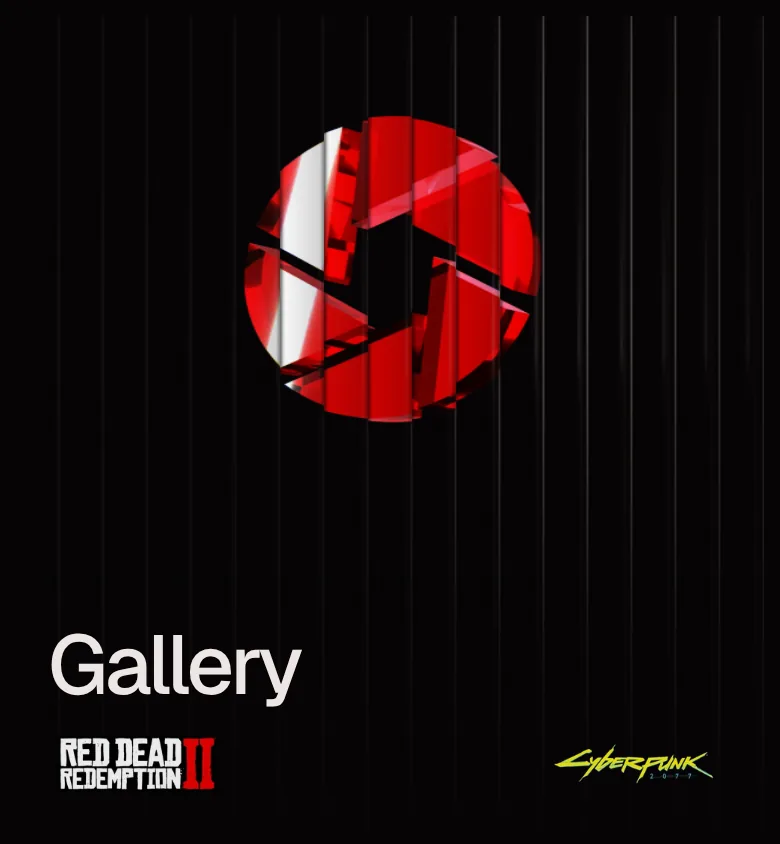
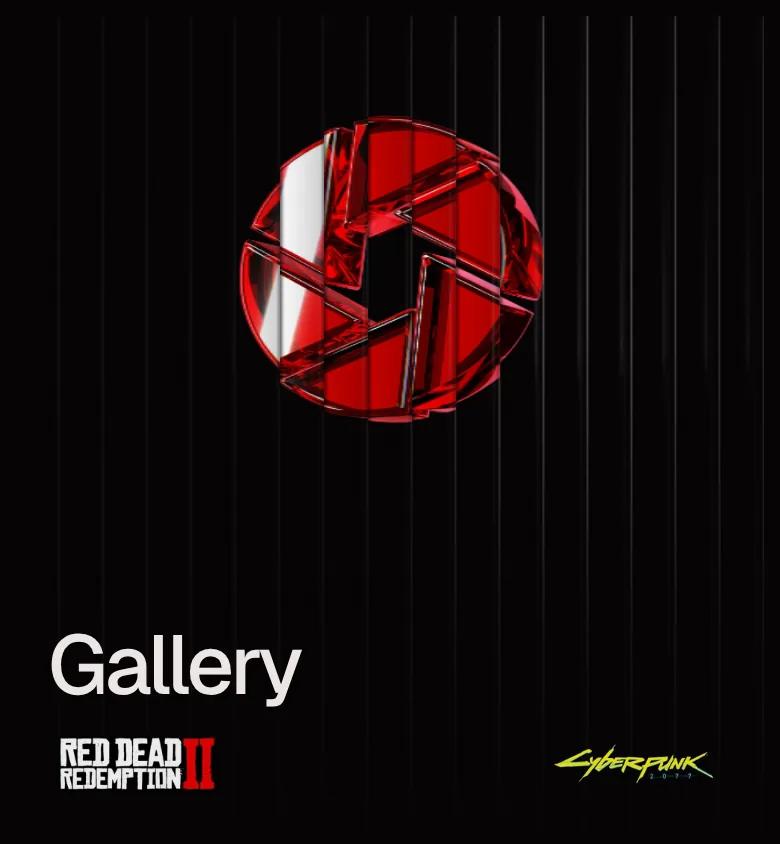
Preview: bevelled aperture, 33 frames
Claude-Session: https://claude.ai/code/session_015iS8hJsCnV8m3TxSPABS12

Changed region(s): [[0.3077, 0.1232, 0.7077, 0.5237]]

diff --git a/public/gallery/index.html b/public/gallery/index.html
@@ -18,7 +18,7 @@
 <meta name="twitter:site" content="@BrAtUkA_dev">
 <link rel="icon" href="../a/favicon.svg?v=201c26f2" type="image/svg+xml">
 <link rel="preload" href="../a/fonts/geist-latin.woff2?v=91da2c05" as="font" type="font/woff2" crossorigin>
-<link rel="preload" href="../a/hero-gallery.webp?v=934e71de" as="image">
+<link rel="preload" href="../a/hero-gallery.webp?v=3f5bb954" as="image">
 <script>document.documentElement.classList.add('js')</script>
 <style>@font-face{font-family:'Geist';font-style:normal;font-weight:400 600;font-display:swap;src:url(../a/fonts/geist-latin-ext.woff2?v=c99ca7ca) format('woff2');unicode-range:U+0100-02BA, U+02BD-02C5, U+02C7-02CC, U+02CE-02D7, U+02DD-02FF, U+0304, U+0308, U+0329, U+1D00-1DBF, U+1E00-1E9F, U+1EF2-1EFF, U+2020, U+20A0-20AB, U+20AD-20C4, U+2113, U+2C60-2C7F, U+A720-A7FF}@font-face{font-family:'Geist';font-style:normal;font-weight:400 600;font-display:swap;src:url(../a/fonts/geist-latin.woff2?v=91da2c05) format('woff2');unicode-range:U+0000-00FF, U+0131, U+0152-0153, U+02BB-02BC, U+02C6, U+02DA, U+02DC, U+0304, U+0308, U+0329, U+2000-206F, U+20AC, U+2122, U+2191, U+2193, U+2212, U+2215, U+FEFF, U+FFFD}@font-face{font-family:'Geist Mono';font-style:normal;font-weight:400 500;font-display:swap;src:url(../a/fonts/geist-mono-latin-ext.woff2?v=c493e11b) format('woff2');unicode-range:U+0100-02BA, U+02BD-02C5, U+02C7-02CC, U+02CE-02D7, U+02DD-02FF, U+0304, U+0308, U+0329, U+1D00-1DBF, U+1E00-1E9F, U+1EF2-1EFF, U+2020, U+20A0-20AB, U+20AD-20C4, U+2113, U+2C60-2C7F, U+A720-A7FF}@font-face{font-family:'Geist Mono';font-style:normal;font-weight:400 500;font-display:swap;src:url(../a/fonts/geist-mono-latin.woff2?v=d8f727de) format('woff2');unicode-range:U+0000-00FF, U+0131, U+0152-0153, U+02BB-02BC, U+02C6, U+02DA, U+02DC, U+0304, U+0308, U+0329, U+2000-206F, U+20AC, U+2122, U+2191, U+2193, U+2212, U+2215, U+FEFF, U+FFFD}</style>
 <style>
@@ -93,8 +93,8 @@ a{color:inherit;text-decoration:none}
 <link rel="stylesheet" href="../a/media.css?v=cb919c36">
 </head>
 <body>
-<section class="hero sub games-on" id="top" aria-label="Gallery" data-base="../" data-plate="a/hero-gallery.webp?v=934e71de" data-turn="a/turn-gallery/b" data-tv="c95f76f6" data-k="1" data-dx="0" data-dy="0" data-x=".72" data-y=".5" data-size=".66" data-y-n=".3" data-size-n=".38" data-tn="25" data-tr="12" data-td=".9" data-ta=".4">
-  <picture class="poster" id="poster" aria-hidden="true"><source media="(max-width: 760px)" srcset="../a/hero-gallery-poster-m.webp?v=236f9ef3"><img src="../a/hero-gallery-poster.webp?v=a37448bd" alt="" decoding="async" loading="lazy"></picture>
+<section class="hero sub games-on" id="top" aria-label="Gallery" data-base="../" data-plate="a/hero-gallery.webp?v=3f5bb954" data-turn="a/turn-gallery/b" data-tv="074d2add" data-k="1" data-dx="0" data-dy="0" data-x=".72" data-y=".5" data-size=".66" data-y-n=".3" data-size-n=".38" data-tn="33" data-tr="16" data-td=".45" data-ta=".4">
+  <picture class="poster" id="poster" aria-hidden="true"><source media="(max-width: 760px)" srcset="../a/hero-gallery-poster-m.webp?v=d01ca12c"><img src="../a/hero-gallery-poster.webp?v=b246bf45" alt="" decoding="async" loading="lazy"></picture>
   <noscript><style>.poster{display:block}</style></noscript>
   <canvas id="glass" aria-hidden="true"></canvas>
   <header class="top gut"><div class="wrap"><a class="brand" href="../">BrAtUkA</a><nav class="nav" aria-label="Site"><a href="../#work" class="opt">Projects</a><a href="../renders/">Renders</a><a href="../gallery/" aria-current="page">Gallery</a><a href="../#about" class="opt">About</a><a href="../#contact">Contact</a></nav></div></header>
